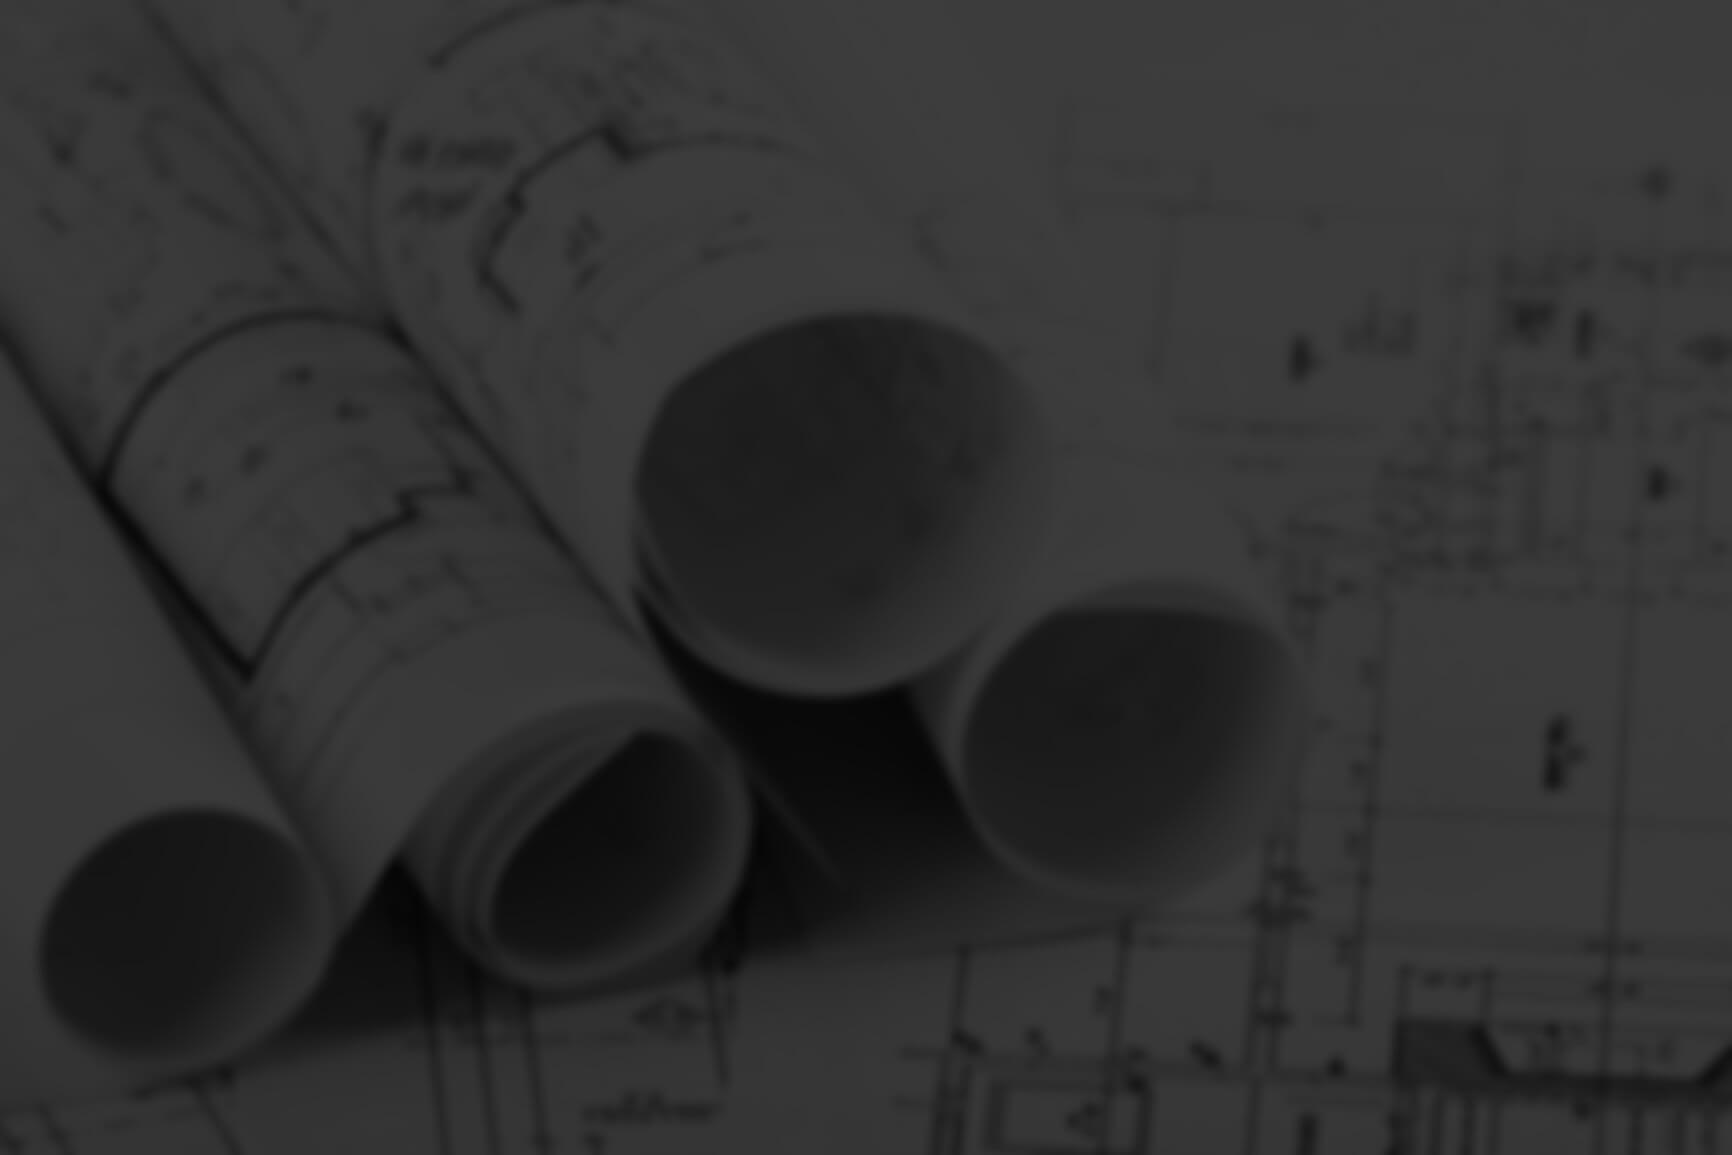
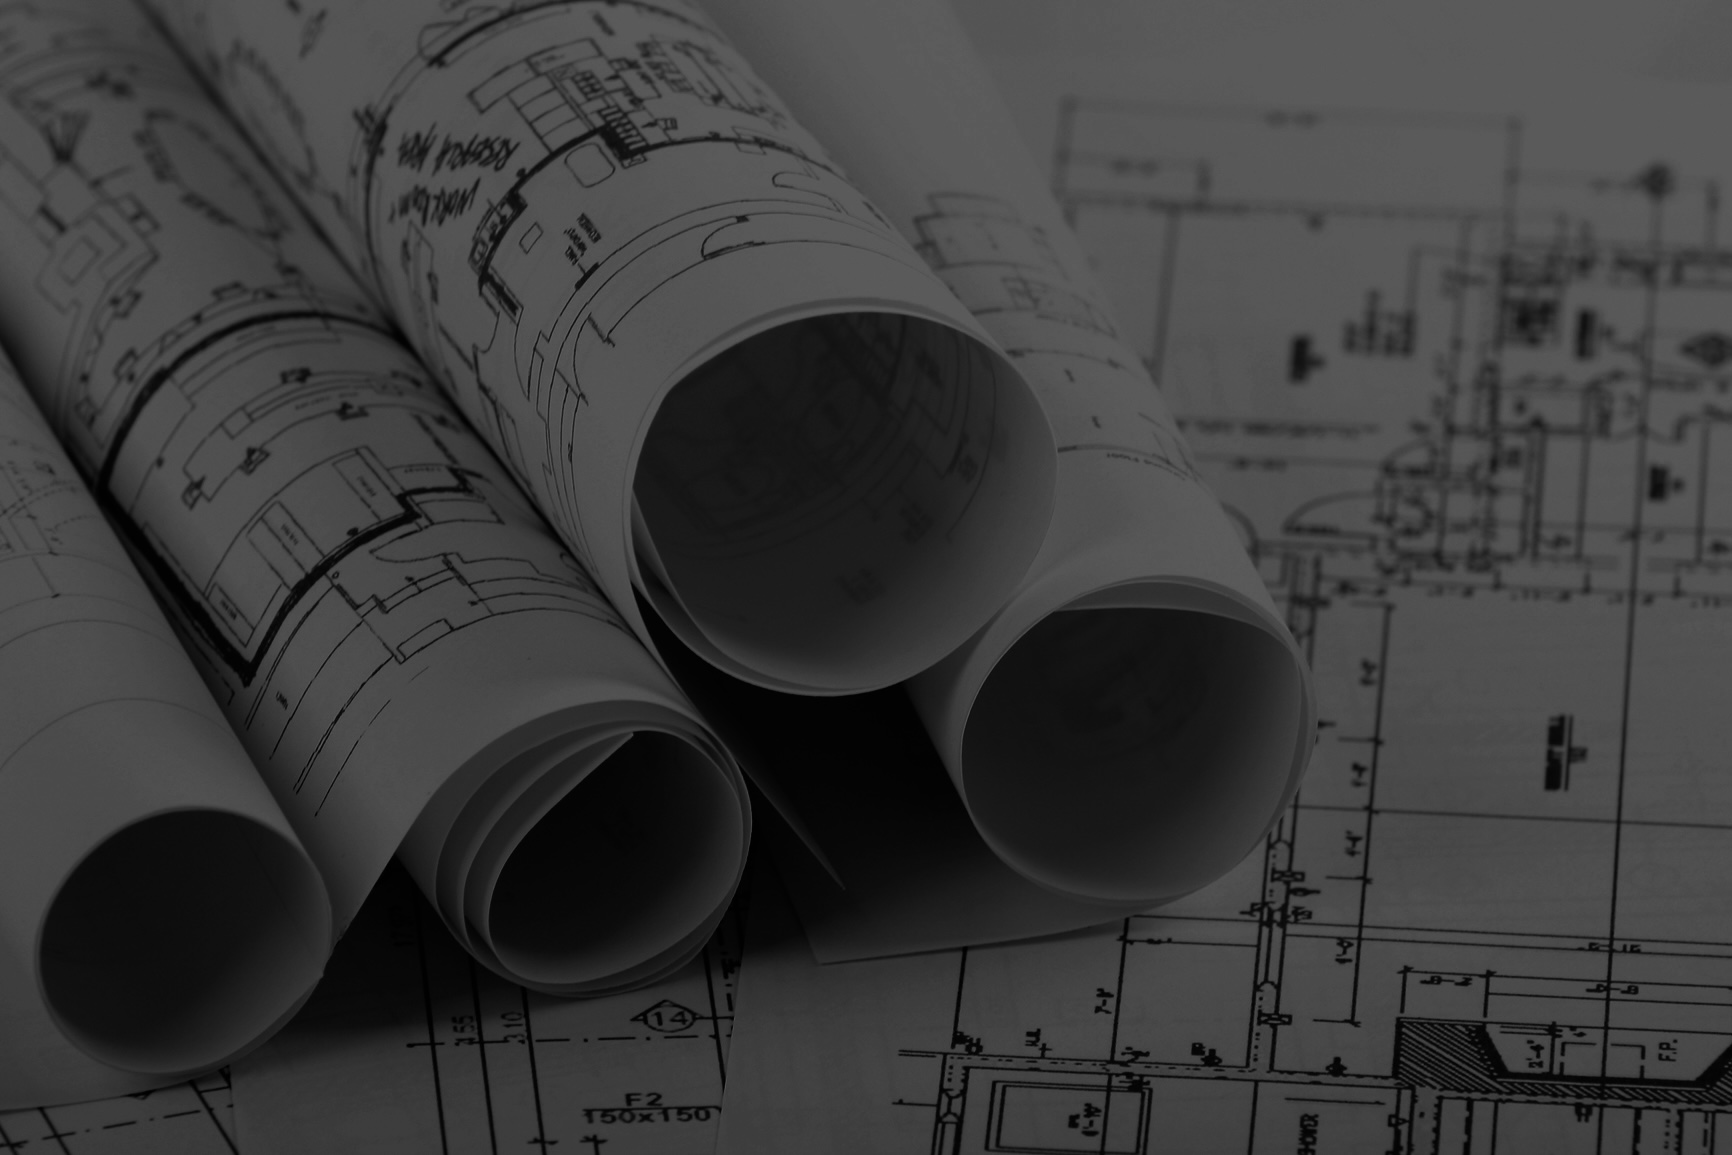
no message

diff --git a/index.html b/index.html
@@ -105,7 +105,7 @@
               Введение отчетности участка (по материалам, человеческим ресурсам, механизмам, проделанной работе за текущий/прошедший день, неделю, месяц.
           </div>
           <div class="service-item">
-              Заполнение специальных журналов предусмотренных в строительство того или иного объекта <span class="service__item_hidden">(по ОТ и ПБ, общий журнал работ, сварочный журнал - трубопроводы и металлоконструкции, журнал монтажа строительных конструкций).</span>
+              Заполнение специальных журналов предусмотренных в строительство того или иного объекта (по ОТ и ПБ, общий журнал работ, сварочный журнал - трубопроводы и металлоконструкции, журнал монтажа строительных конструкций). 
           </div>
         </div>
       </div>

diff --git a/style/style.css b/style/style.css
@@ -13,7 +13,7 @@ body {
 }
 
 .first-section {
-  background: url('../img/bg.png') top/cover no-repeat #a9b2c3;
+  background: url('../img/bg.jpg') top/cover no-repeat #a9b2c3;
 }
 
 .first-section__wrap-content {

diff --git a/style/media.css b/style/media.css
@@ -193,7 +193,7 @@
     margin-left: 0;
   }
 
-  .service__item_hidden {
+  .service-item:last-child {
     display: none;
   }
 
